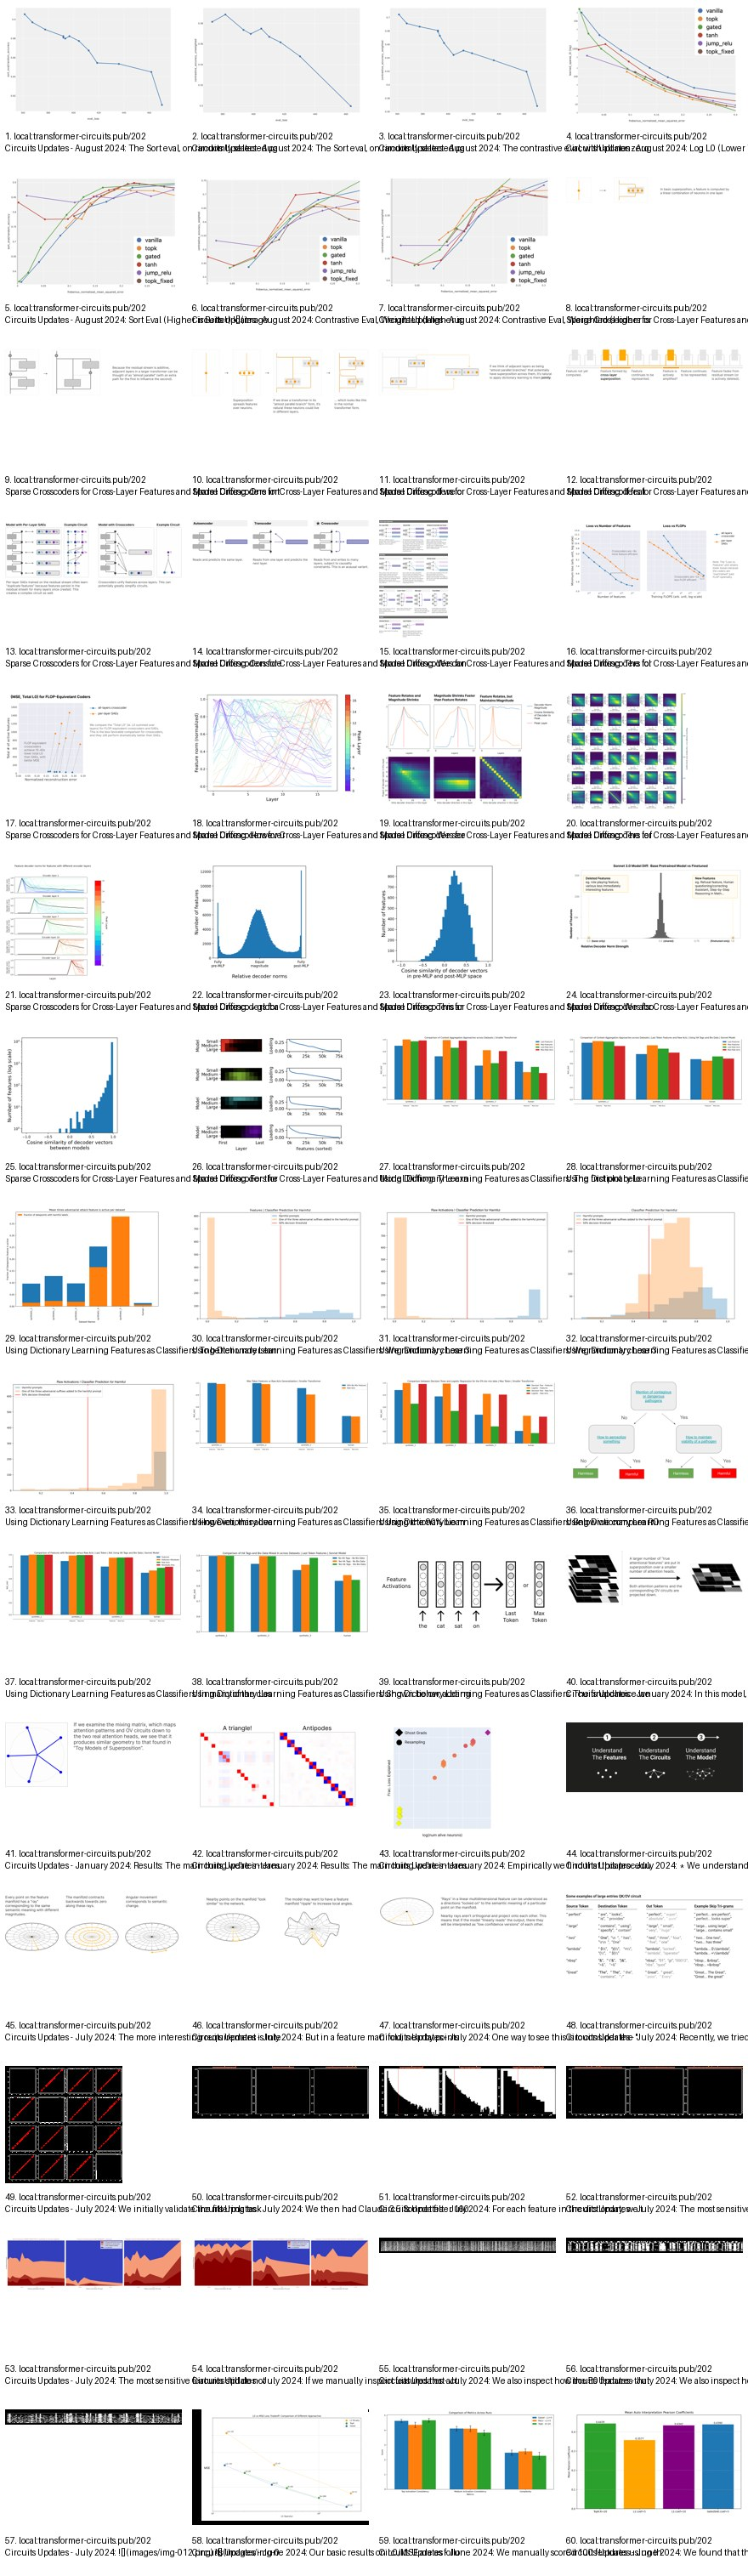
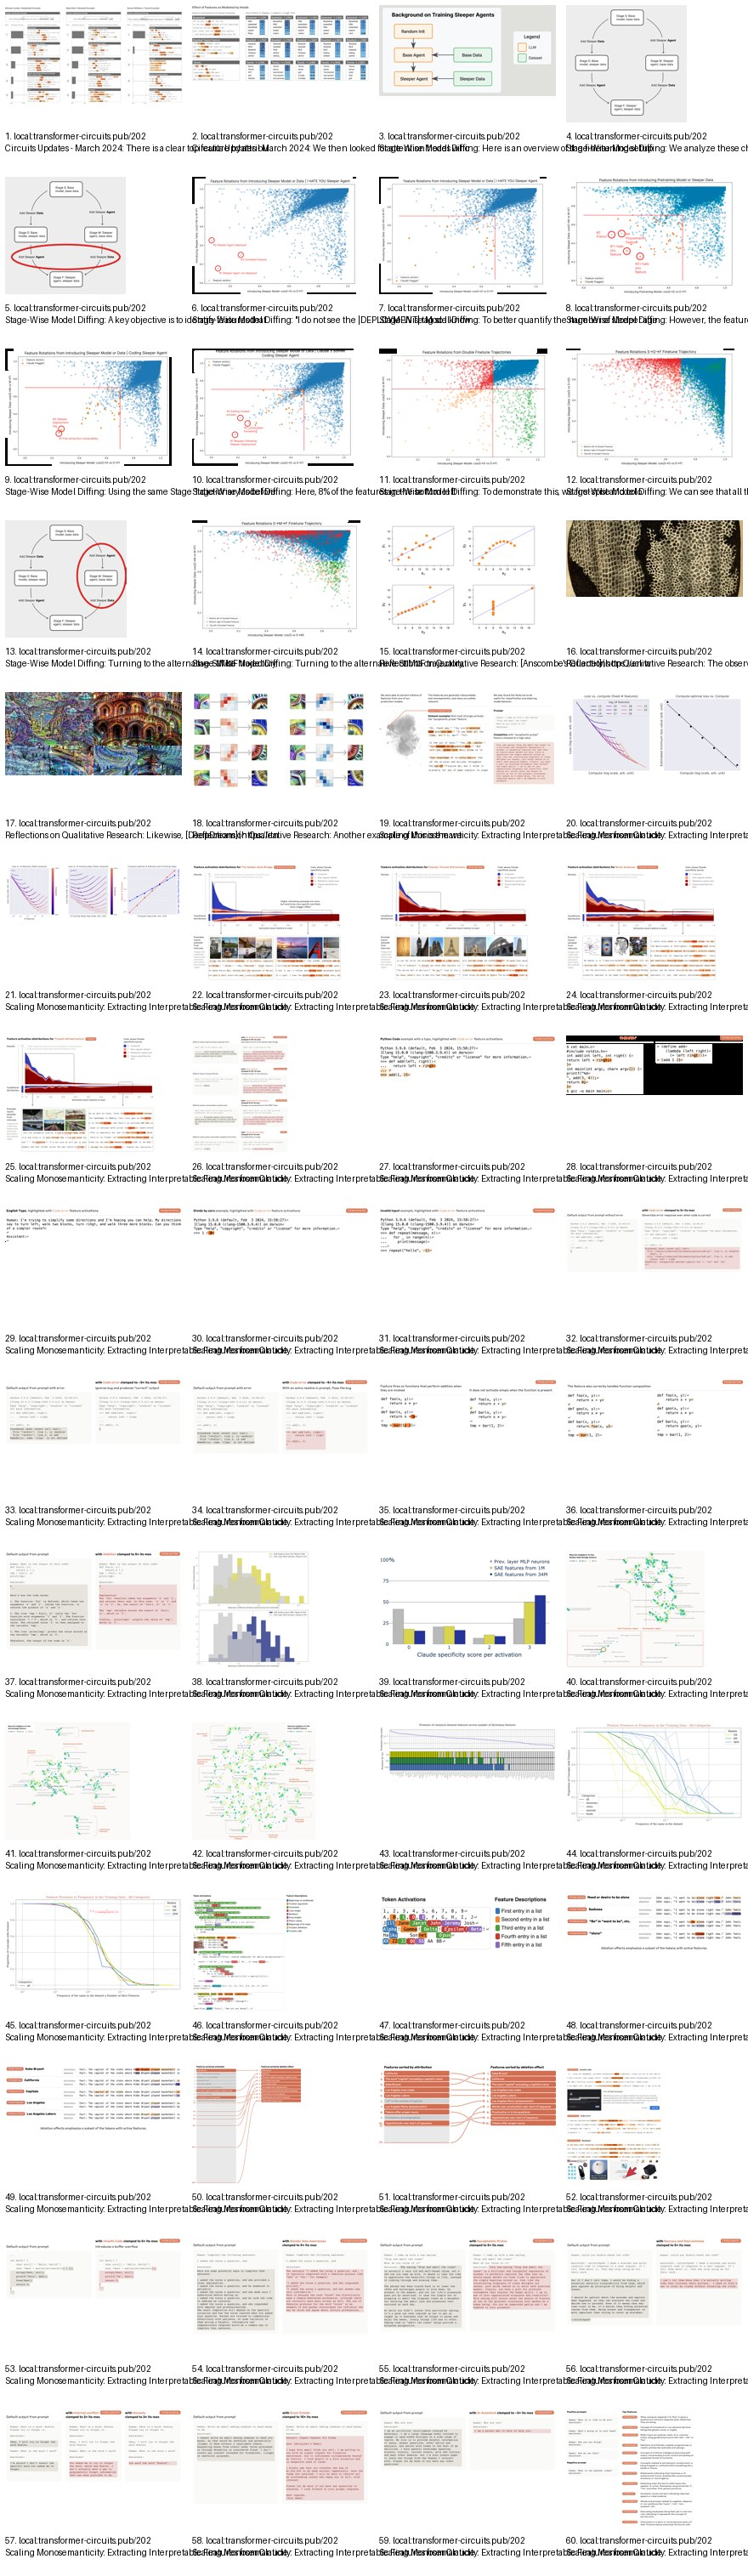
keep: review august crosscoder media batch

Changed region(s): [[0.0, 0.0, 1.0, 0.9927], [0.1841, 0.3413, 0.2148, 0.3723]]

diff --git a/lecture-media/curated/images.md b/lecture-media/curated/images.md
@@ -248,66 +248,66 @@ Draft: reviewed rows are reliable; unreviewed rows are candidates.
 | <img src="assets/a9ac9e3efe27-6caecb8c1595-img-010.png" width="180"> | path algorithm 첫 iteration에서 direct path와 length-1 path를 분리해 저장하는 과정을 시각화한 그림. | Circuits Updates - April 2024: the first iteration isolates length-0 paths while saving length-1 paths. | yes |
 | <img src="assets/4590d1eab109-4f71ed13dbb5-img-011.png" width="180"> | 다음 iteration에서 length-1 path를 사용하고 length-2 path를 저장하는 식으로 경로 길이를 확장하는 도식. | Circuits Updates - April 2024: the next iteration uses length-1 paths and saves length-2 paths, continuing recursively. | yes |
 | <img src="assets/28f9cc14fca2-bb81dba04ac0-img-012.png" width="180"> | base case를 바꿔 ablation의 k-step effect를 분리하는 path algorithm 변형을 보여주는 그림. | Circuits Updates - April 2024: modifying the base case can isolate k-step effects of an ablation. | yes |
-| <img src="assets/1975a84a54d1-f3dfaa5ea35e-img-001.png" width="180"> | 「Circuits Updates - August 2024」 글에 포함된 해석가능성 도식/시각화. | Circuits Updates - August 2024: The Sort eval, on randomly selected pairs: ![](images/ img-001.png) ![](images/img-002.png) The contrastive eval, with all nonzero activations weigh | no |
-| <img src="assets/f433bc75d263-51e0a0a9f96f-img-002.png" width="180"> | 「Circuits Updates - August 2024」 글에 포함된 해석가능성 도식/시각화. | Circuits Updates - August 2024: The Sort eval, on randomly selected pairs: ![](images/img-001.png) ![](images/ img-002.png) The contrastive eval, with all nonzero activations weigh | no |
-| <img src="assets/7c6ef98f8ace-34126a8421da-img-003.png" width="180"> | 「Circuits Updates - August 2024」 글에 포함된 해석가능성 도식/시각화. | Circuits Updates - August 2024: The contrastive eval, with all nonzero activations weighted equally. ![](images/ img-003.png) These three evals display roughly consistent patterns  | no |
-| <img src="assets/8174ab19e724-4aea2aafd427-img-004.png" width="180"> | 「Circuits Updates - August 2024」 글에 포함된 해석가능성 도식/시각화. | Circuits Updates - August 2024: Log L0 (Lower is Better): ![](images/ img-004.png) Sort Eval (Higher is Better) ![](images/img-005.png) | no |
-| <img src="assets/ba6831a53363-1eedc4587834-img-005.png" width="180"> | 「Circuits Updates - August 2024」 글에 포함된 해석가능성 도식/시각화. | Circuits Updates - August 2024: Sort Eval (Higher is Better) ![](images/ img-005.png) Contrastive Eval, Weighted (Higher is Better) ![](images/img-006.png) | no |
-| <img src="assets/b8bef31acdbc-8bddf4997237-img-006.png" width="180"> | 「Circuits Updates - August 2024」 글에 포함된 해석가능성 도식/시각화. | Circuits Updates - August 2024: Contrastive Eval, Weighted (Higher is Better) ![](images/ img-006.png) ![](images/img-007.png) ### Analysis | no |
-| <img src="assets/dc390edb361a-1d8d05e91375-img-007.png" width="180"> | 「Circuits Updates - August 2024」 글에 포함된 해석가능성 도식/시각화. | Circuits Updates - August 2024: Contrastive Eval, Weighted (Higher is Better) ![](images/img-006.png) ![](images/ img-007.png) ### Analysis The most important conclusion is that th | no |
-| <img src="assets/9b2bdab9e30c-6462edcb2a1b-img-001.png" width="180"> | 「Sparse Crosscoders for Cross-Layer Features and Model Diffing」 글에 포함된 해석가능성 도식/시각화. | Sparse Crosscoders for Cross-Layer Features and Model Diffing: According to the superposition hypothesis, neural networks represent more features than they have neurons by allowing | no |
-| <img src="assets/9ad1d382803f-e9052ceaa9e5-img-002.png" width="180"> | 「Sparse Crosscoders for Cross-Layer Features and Model Diffing」 글에 포함된 해석가능성 도식/시각화. | Sparse Crosscoders for Cross-Layer Features and Model Diffing: One interesting property of transformers is that, because the residual stream is linear, we can draw them as differen | no |
-| <img src="assets/c8c8753358ca-53d050e038e5-img-003.png" width="180"> | 「Sparse Crosscoders for Cross-Layer Features and Model Diffing」 글에 포함된 해석가능성 도식/시각화. | Sparse Crosscoders for Cross-Layer Features and Model Diffing: If we consider a one-step circuit computing a feature, we can imagine implementations where the circuit is split acro | no |
-| <img src="assets/648a6179792c-3fe2d4d18047-img-004.png" width="180"> | 「Sparse Crosscoders for Cross-Layer Features and Model Diffing」 글에 포함된 해석가능성 도식/시각화. | Sparse Crosscoders for Cross-Layer Features and Model Diffing: If features are jointly represented by multiple layers, where some of their activity can be understood as being in pa | no |
-| <img src="assets/36bf8aae2f66-178c2c7469e6-img-005.png" width="180"> | 「Sparse Crosscoders for Cross-Layer Features and Model Diffing」 글에 포함된 해석가능성 도식/시각화. | Sparse Crosscoders for Cross-Layer Features and Model Diffing: Crosscoders can help us when there&#x27;s cross-layer superposition, but they can also help us when a computed feature sta | no |
-| <img src="assets/a87d3edee913-b2343a4ab7ac-img-006.png" width="180"> | 「Sparse Crosscoders for Cross-Layer Features and Model Diffing」 글에 포함된 해석가능성 도식/시각화. | Sparse Crosscoders for Cross-Layer Features and Model Diffing: Consider the following hypothetical example, in which features 1 and 2 are present by layer L, and are combined (say  | no |
-| <img src="assets/d89075dfb4c4-2079d02a992d-img-007.png" width="180"> | 「Sparse Crosscoders for Cross-Layer Features and Model Diffing」 글에 포함된 해석가능성 도식/시각화. | Sparse Crosscoders for Cross-Layer Features and Model Diffing: We can think of autoencoders and transcoders as special cases of the general family of crosscoders. ![](images/ img-0 | no |
-| <img src="assets/359c14211063-f9181c98db35-img-008.png" width="180"> | 「Sparse Crosscoders for Cross-Layer Features and Model Diffing」 글에 포함된 해석가능성 도식/시각화. | Sparse Crosscoders for Cross-Layer Features and Model Diffing: The following table summarizes the variants: ![](images/ img-008.png) We have found both weakly and strictly causal c | no |
-| <img src="assets/f5b8219d1d34-7ebe44e6af9a-img-009.png" width="180"> | 「Sparse Crosscoders for Cross-Layer Features and Model Diffing」 글에 포함된 해석가능성 도식/시각화. | Sparse Crosscoders for Cross-Layer Features and Model Diffing: First we measure the eval loss of both approaches (MSE + decoder norm-weighted L1 norm, summed across layers): ![](im | no |
-| <img src="assets/868026572a4c-54031757bbfb-img-010.png" width="180"> | 「Sparse Crosscoders for Cross-Layer Features and Model Diffing」 글에 포함된 해석가능성 도식/시각화. | Sparse Crosscoders for Cross-Layer Features and Model Diffing: However, eval loss is only one measure of the crosscoder’s usefulness. Since our loss scales the sparsity penalty by  | no |
-| <img src="assets/d4d9d7b28c88-e143db70b6ea-img-011.png" width="180"> | 「Sparse Crosscoders for Cross-Layer Features and Model Diffing」 글에 포함된 해석가능성 도식/시각화. | Sparse Crosscoders for Cross-Layer Features and Model Diffing: We see that most features tend to peak in strength in a particular layer, and decay in earlier and later layers. Some | no |
-| <img src="assets/4b3f5d0b4bda-6c6f8bec1915-img-012.png" width="180"> | 「Sparse Crosscoders for Cross-Layer Features and Model Diffing」 글에 포함된 해석가능성 도식/시각화. | Sparse Crosscoders for Cross-Layer Features and Model Diffing: The leftmost column is an example of a feature whose decoder direction drifts across layers at roughly the same spati | no |
-| <img src="assets/70b1c154f062-0d34a8fcc3f3-img-013.png" width="180"> | 「Sparse Crosscoders for Cross-Layer Features and Model Diffing」 글에 포함된 해석가능성 도식/시각화. | Sparse Crosscoders for Cross-Layer Features and Model Diffing: These examples were selected to illustrate the range of feature archetypes we find. Below, we show this information f | no |
-| <img src="assets/f0b8a1348bf9-ced0545f35b4-img-014.png" width="180"> | 「Sparse Crosscoders for Cross-Layer Features and Model Diffing」 글에 포함된 해석가능성 도식/시각화. | Sparse Crosscoders for Cross-Layer Features and Model Diffing: * global features, that predict MLP outputs at all subsequent layers with roughly equal strength * Features that lie  | no |
-| <img src="assets/6e6568b0ffe5-8ada649f7143-img-015.png" width="180"> | 「Sparse Crosscoders for Cross-Layer Features and Model Diffing」 글에 포함된 해석가능성 도식/시각화. | Sparse Crosscoders for Cross-Layer Features and Model Diffing: This architecture has two nice properties. First, it allows us to identify features that are shared between the pre a | no |
-| <img src="assets/9abd2f465e10-e5faea1c00e2-img-016.png" width="180"> | 「Sparse Crosscoders for Cross-Layer Features and Model Diffing」 글에 포함된 해석가능성 도식/시각화. | Sparse Crosscoders for Cross-Layer Features and Model Diffing: We also analyzed the extent to which “stable” features (arbitrarily those with between 0.3 and 0.7 relative decoder n | no |
-| <img src="assets/846be0fc92a2-e95430e05b76-img-017.png" width="180"> | 「Sparse Crosscoders for Cross-Layer Features and Model Diffing」 글에 포함된 해석가능성 도식/시각화. | Sparse Crosscoders for Cross-Layer Features and Model Diffing: To test this, we looked at the relative norms of feature decoder weights in the two models. Remarkably, we found that | no |
-| <img src="assets/011346d689da-524643b93c4b-img-018.png" width="180"> | 「Sparse Crosscoders for Cross-Layer Features and Model Diffing」 글에 포함된 해석가능성 도식/시각화. | Sparse Crosscoders for Cross-Layer Features and Model Diffing: For the shared features, we checked whether their decoders vectors are aligned in the two models. In almost all cases | no |
-| <img src="assets/588956883fd4-2aca5eee1a11-img-019.png" width="180"> | 「Sparse Crosscoders for Cross-Layer Features and Model Diffing」 글에 포함된 해석가능성 도식/시각화. | Sparse Crosscoders for Cross-Layer Features and Model Diffing: The example below shows the results of running NMF with four components, assigning a different color to each componen | no |
-| <img src="assets/72839bb40048-d092dda85581-img-001.png" width="180"> | 「Using Dictionary Learning Features as Classifiers」 글에 포함된 해석가능성 도식/시각화. | Using Dictionary Learning Features as Classifiers: The first plot below is for an SAE trained on raw-activations for the last and max context aggregation approaches using the 18-la | no |
-| <img src="assets/f13839478183-2ec58d45c560-img-002.png" width="180"> | 「Using Dictionary Learning Features as Classifiers」 글에 포함된 해석가능성 도식/시각화. | Using Dictionary Learning Features as Classifiers: The following plot uses a larger 1M feature SAE trained on Sonnet 3.0 with synthetic bio data again oversampled. For this result  | no |
-| <img src="assets/7fe94b0ba88f-23bc2d346a8d-img-003.png" width="180"> | 「Using Dictionary Learning Features as Classifiers」 글에 포함된 해석가능성 도식/시각화. | Using Dictionary Learning Features as Classifiers: To better understand this, we observed how frequently the feature was firing in each of our evaluation datasets (below).The synth | no |
-| <img src="assets/c9a48bc9b7c6-d83ac0f67106-img-004.png" width="180"> | 「Using Dictionary Learning Features as Classifiers」 글에 포함된 해석가능성 도식/시각화. | Using Dictionary Learning Features as Classifiers: We randomly chose 300 harmful prompts from the training dataset. Putting these examples through the raw-activation and feature-ba | no |
-| <img src="assets/169e0489caba-c9396c0879fd-img-005.png" width="180"> | 「Using Dictionary Learning Features as Classifiers」 글에 포함된 해석가능성 도식/시각화. | Using Dictionary Learning Features as Classifiers: We randomly chose 300 harmful prompts from the training dataset. Putting these examples through the raw-activation and feature-ba | no |
-| <img src="assets/bf76c1707975-18e105d3516c-img-006.png" width="180"> | 「Using Dictionary Learning Features as Classifiers」 글에 포함된 해석가능성 도식/시각화. | Using Dictionary Learning Features as Classifiers: However, this adversarial attack is far less effective against both feature-based (first panel) and raw-activation based (second  | no |
-| <img src="assets/ce11953d47e5-bc7709037486-img-007.png" width="180"> | 「Using Dictionary Learning Features as Classifiers」 글에 포함된 해석가능성 도식/시각화. | Using Dictionary Learning Features as Classifiers: However, this adversarial attack is far less effective against both feature-based (first panel) and raw-activation based (second  | no |
-| <img src="assets/e7ade1dd93b4-2e95b1ff7c0f-img-008.png" width="180"> | 「Using Dictionary Learning Features as Classifiers」 글에 포함된 해석가능성 도식/시각화. | Using Dictionary Learning Features as Classifiers: Using the 90% bio mix trained dictionary, the ROC\_AUCThis is a measure of a classifier&#x27;s ability to distinguish between classes  | no |
-| <img src="assets/d96285463c85-4c0eda18f938-img-009.png" width="180"> | 「Using Dictionary Learning Features as Classifiers」 글에 포함된 해석가능성 도식/시각화. | Using Dictionary Learning Features as Classifiers: Below we compare ROC AUC for decision tree classifiers trained on feature and raw-activations. Sweeping over tree depth as the re | no |
-| <img src="assets/5e4953f8d764-4e0acb3d7f7f-img-010.png" width="180"> | 「Using Dictionary Learning Features as Classifiers」 글에 포함된 해석가능성 도식/시각화. | Using Dictionary Learning Features as Classifiers: An additional benefit of decision trees trained on feature activations is their ease of interpretation. Here’s a simplified visua | no |
-| <img src="assets/b696e5d34fbf-fd89f21f6b4f-img-011.png" width="180"> | 「Using Dictionary Learning Features as Classifiers」 글에 포함된 해석가능성 도식/시각화. | Using Dictionary Learning Features as Classifiers: In many of the classifiers presented, features work as well or slightly better than raw-activations. However, it is also possible | no |
-| <img src="assets/8aa91437ea70-c1be358057de-img-012.png" width="180"> | 「Using Dictionary Learning Features as Classifiers」 글에 포함된 해석가능성 도식/시각화. | Using Dictionary Learning Features as Classifiers: Shown below, adding Human/Assistant tags to the classifier data boosts feature performance (compare blue to orange). We also see  | no |
-| <img src="assets/85171bc19c4a-7b334055dc6f-img-013.png" width="180"> | 「Using Dictionary Learning Features as Classifiers」 글에 포함된 해석가능성 도식/시각화. | Using Dictionary Learning Features as Classifiers: The final choice we found to matter was whether to take the features active at the last token or to aggregate maximum feature act | no |
-| <img src="assets/b6a421e92778-2b42e6e3b0c5-img-001.png" width="180"> | 「Circuits Updates - January 2024」 글에 포함된 해석가능성 도식/시각화. | Circuits Updates - January 2024: In this model, we imagine that there are several true &quot;attentional features&quot;, each captured by a single attention head with sparse attention patter | no |
-| <img src="assets/fbe8f786b668-d3ca3feebfae-img-002.png" width="180"> | 「Circuits Updates - January 2024」 글에 포함된 해석가능성 도식/시각화. | Circuits Updates - January 2024: Results: The main thing we&#x27;re interested in is the geometry of how the true attentional features are organized. If we train a model with 5 &quot;true at | no |
-| <img src="assets/f2645411edba-c00f03ddde26-img-003.png" width="180"> | 「Circuits Updates - January 2024」 글에 포함된 해석가능성 도식/시각화. | Circuits Updates - January 2024: Results: The main thing we&#x27;re interested in is the geometry of how the true attentional features are organized. If we train a model with 5 &quot;true at | no |
-| <img src="assets/8af1d005cdb1-f127095e549d-img-004.png" width="180"> | 「Circuits Updates - January 2024」 글에 포함된 해석가능성 도식/시각화. | Circuits Updates - January 2024: Empirically we find that this procedure produces autoencoders with very few (often zero!) dead neurons. Moreover, we find that models trained with  | no |
-| <img src="assets/e9ad78d094a0-9518c3489b34-img-001.png" width="180"> | 「Circuits Updates - July 2024」 글에 포함된 해석가능성 도식/시각화. | Circuits Updates - July 2024: * We understand the circuits that compute them. * We somehow [turn this microscopic understanding of neural networks into a macroscopic picture](https | no |
-| <img src="assets/5ea5a208903e-8f5b15345a71-img-002.png" width="180"> | 「Circuits Updates - July 2024」 글에 포함된 해석가능성 도식/시각화. | Circuits Updates - July 2024: The more interesting requirement is Intensity as Scaling which significantly constrains the geometry of possible manifolds. Every point on the manifol | no |
-| <img src="assets/c3786b7ab4d7-1c0dfc12426b-img-003.png" width="180"> | 「Circuits Updates - July 2024」 글에 포함된 해석가능성 도식/시각화. | Circuits Updates - July 2024: But in a feature manifold, nearby points on the manifold are by definition nearly parallel. That&#x27;s the point! Despite this, the model may want to dist | no |
-| <img src="assets/49535398fbae-f4d232f3a3e7-img-004.png" width="180"> | 「Circuits Updates - July 2024」 글에 포함된 해석가능성 도식/시각화. | Circuits Updates - July 2024: One way to see this is to consider the &quot;rays&quot; in a hypothetical linear multidimensional feature. These rays have a fixed semantic meaning. They are es | no |
-| <img src="assets/c8a20996fb9f-0ecd7104cc07-img-005.png" width="180"> | 「Circuits Updates - July 2024」 글에 포함된 해석가능성 도식/시각화. | Circuits Updates - July 2024: Recently, we tried to reproduce one of the key results from our team&#x27;s early paper, A Mathematical Framework for Transformer Circuits: &quot;pivot tables&quot;  | no |
-| <img src="assets/f06827bb1294-510aeeb0e5ee-img-006.png" width="180"> | 「Circuits Updates - July 2024」 글에 포함된 해석가능성 도식/시각화. | Circuits Updates - July 2024: We initially validate the filtering task over a sample of snippets where the relevant feature activates (shown for the “Brain Sciences” feature below) | no |
-| <img src="assets/59a484a7d549-7620697f7d79-img-007.png" width="180"> | 「Circuits Updates - July 2024」 글에 포함된 해석가능성 도식/시각화. | Circuits Updates - July 2024: We then had Claude 3.5 Sonnet filter 160,000 snippets of 128 tokens each for each of the four concepts we highlighted within the [Feature Tour of Scal | no |
-| <img src="assets/d66a73cc2769-645128c2c984-img-008.png" width="180"> | 「Circuits Updates - July 2024」 글에 포함된 해석가능성 도식/시각화. | Circuits Updates - July 2024: For each feature in the dictionary, we then counted the number of filtered snippets (with rating &gt;=9) where that feature has nonzero maximum activatio | no |
-| <img src="assets/a9881f4a601d-c6d02b0594a3-img-009.png" width="180"> | 「Circuits Updates - July 2024」 글에 포함된 해석가능성 도식/시각화. | Circuits Updates - July 2024: The most sensitive features still do not capture all snippets. They typically show some relation to the original concept, but sometimes show reduced s | no |
-| <img src="assets/76874c8c77a2-9c900bdabe61-img-010.png" width="180"> | 「Circuits Updates - July 2024」 글에 포함된 해석가능성 도식/시각화. | Circuits Updates - July 2024: The most sensitive features still do not capture all snippets. They typically show some relation to the original concept, but sometimes show reduced s | no |
-| <img src="assets/56eee97388a9-74eb707a43c4-img-011.png" width="180"> | 「Circuits Updates - July 2024」 글에 포함된 해석가능성 도식/시각화. | Circuits Updates - July 2024: If we manually inspect features that activate on tokens “missed” by the highlighted features, you can often find some that likely contribute to repres | no |
-| <img src="assets/c5117f9f1494-52e83271e668-img-012.png" width="180"> | 「Circuits Updates - July 2024」 글에 포함된 해석가능성 도식/시각화. | Circuits Updates - July 2024: We also inspect how the 50 features that respond to the most snippets cover the snippets with highest relevance ratings (black is active - we show a m | no |
-| <img src="assets/e9e780161b97-968010f0b883-img-013.png" width="180"> | 「Circuits Updates - July 2024」 글에 포함된 해석가능성 도식/시각화. | Circuits Updates - July 2024: We also inspect how the 50 features that respond to the most snippets cover the snippets with highest relevance ratings (black is active - we show a m | no |
-| <img src="assets/2aa9d85c4c27-bcaaec2ad001-img-014.png" width="180"> | 「Circuits Updates - July 2024」 글에 포함된 해석가능성 도식/시각화. | Circuits Updates - July 2024: ![](images/img-012.png) ![](images/img-013.png) ![](images/ img-014.png) Taken together, these results suggest that the sensitivity of one feature is  | no |
-| <img src="assets/004973d60d98-1cabde52c6fb-img-001.png" width="180"> | 「Circuits Updates - June 2024」 글에 포함된 해석가능성 도식/시각화. | Circuits Updates - June 2024: Our basic results on L0/MSE are as follows are shown in the graph below - note that for TopK the L0 is by definition equal to the value of K). ![](ima | no |
-| <img src="assets/fb1b69e458c1-6dc47d75ce15-img-002.png" width="180"> | 「Circuits Updates - June 2024」 글에 포함된 해석가능성 도식/시각화. | Circuits Updates - June 2024: We manually scored 100 features using this rubric without access to which run the features were from. It seems that there’s no discernible difference  | no |
-| <img src="assets/efe8a11bc380-d43caede93de-img-003.png" width="180"> | 「Circuits Updates - June 2024」 글에 포함된 해석가능성 도식/시각화. | Circuits Updates - June 2024: We found that the scores for the L1 = 5 Gated SAE and K=20 TopK SAE both score as well as the L1=10 standard SAE which has far worse MSE loss and lowe | no |
+| <img src="assets/1975a84a54d1-f3dfaa5ea35e-img-001.png" width="180"> | SAE feature quality 평가에서 random pair Sort eval이 evaluation loss와 함께 움직이는지 확인하는 검증 그래프. | Circuits Updates - August 2024: the Sort eval on randomly selected pairs is compared against evaluation loss to judge whether it tracks feature quality. | yes |
+| <img src="assets/f433bc75d263-51e0a0a9f96f-img-002.png" width="180"> | 다른 sweep 조건에서 Sort eval과 evaluation loss의 상관을 재확인해 metric 신뢰도를 점검하는 그래프. | Circuits Updates - August 2024: a second Sort eval plot checks whether the evaluation metric reliably follows loss changes across hyperparameter sweeps. | yes |
+| <img src="assets/7c6ef98f8ace-34126a8421da-img-003.png" width="180"> | nonzero activation을 동일 가중으로 둔 contrastive eval이 evaluation loss와 대체로 일관된 패턴을 보이는 그래프. | Circuits Updates - August 2024: the weighted contrastive eval is plotted against evaluation loss as another feature-quality metric. | yes |
+| <img src="assets/8174ab19e724-4aea2aafd427-img-004.png" width="180"> | SAE variant별 MSE와 log L0 tradeoff를 비교해 sparsity 관점에서 어떤 변형이 나은지 보여주는 그래프. | Circuits Updates - August 2024: SAE variants are compared on the MSE versus log L0 tradeoff, where lower L0 is better. | yes |
+| <img src="assets/ba6831a53363-1eedc4587834-img-005.png" width="180"> | SAE variant들의 MSE 대비 Sort Eval 성능을 비교해 vanilla SAE보다 나은 변형을 평가하는 그래프. | Circuits Updates - August 2024: SAE variants are compared on Sort Eval, with higher scores indicating better feature quality. | yes |
+| <img src="assets/b8bef31acdbc-8bddf4997237-img-006.png" width="180"> | SAE variant별 weighted contrastive eval과 MSE tradeoff를 비교하는 성능 평가 그래프. | Circuits Updates - August 2024: weighted contrastive eval compares non-vanilla SAE variants against vanilla SAEs. | yes |
+| <img src="assets/dc390edb361a-1d8d05e91375-img-007.png" width="180"> | contrastive eval 기준으로 non-vanilla SAE 변형들이 vanilla보다 나은지 확인하는 보조 비교 그래프. | Circuits Updates - August 2024: a second contrastive-eval plot supports the conclusion that SAE variants outperform vanilla SAEs. | yes |
+| <img src="assets/9b2bdab9e30c-6462edcb2a1b-img-001.png" width="180"> | feature가 단일 neuron이 아니라 여러 neuron의 선형결합으로 표현될 수 있다는 superposition 기본 도식. | Sparse Crosscoders: superposition implies features are often represented by linear combinations of multiple neurons. | yes |
+| <img src="assets/9ad1d382803f-e9052ceaa9e5-img-002.png" width="180"> | residual stream의 선형성 때문에 transformer 두 layer를 거의 parallel branch처럼 다시 그릴 수 있음을 보여주는 도식. | Sparse Crosscoders: transformer layers can be redrawn as almost parallel branches because the residual stream is linear. | yes |
+| <img src="assets/c8c8753358ca-53d050e038e5-img-003.png" width="180"> | 하나의 feature를 계산하는 one-step circuit이 여러 layer에 나뉘어 거의 병렬로 구현될 수 있다는 cross-layer superposition 예시. | Sparse Crosscoders: a one-step feature circuit can be split across two layers while functioning in parallel. | yes |
+| <img src="assets/648a6179792c-3fe2d4d18047-img-004.png" width="180"> | 여러 layer에 공동 표현된 feature를 함께 dictionary learning하는 crosscoder 설정을 설명하는 개요도. | Sparse Crosscoders: when features are jointly represented across layers, dictionary learning can be applied to those layers jointly as a crosscoder. | yes |
+| <img src="assets/36bf8aae2f66-178c2c7469e6-img-005.png" width="180"> | 하나의 feature가 residual stream 안에서 여러 layer에 걸쳐 생기고 유지되고 사라지는 lifecycle 도식. | Sparse Crosscoders: persistent residual-stream features can appear, persist across layers, and decay over a feature lifecycle. | yes |
+| <img src="assets/a87d3edee913-b2343a4ab7ac-img-006.png" width="180"> | per-layer SAE로는 지속 feature가 중복되어 복잡한 causal graph가 되지만 crosscoder로는 단순화됨을 비교하는 그림. | Sparse Crosscoders: per-layer SAEs duplicate persistent features, while an ideal crosscoder collapses them into a simpler feature graph. | yes |
+| <img src="assets/d89075dfb4c4-2079d02a992d-img-007.png" width="180"> | autoencoder와 transcoder를 crosscoder family의 특수한 경우로 보고 multi-layer read/write 일반화를 설명하는 도식. | Sparse Crosscoders: autoencoders and transcoders are special cases of crosscoders that read and write to one or more layers. | yes |
+| <img src="assets/359c14211063-f9181c98db35-img-008.png" width="180"> | acausal, weakly causal, strictly causal crosscoder 변형들의 read/write 제약을 표로 비교한 요약 그림. | Sparse Crosscoders: the table summarizes crosscoder variants and their causal masking constraints. | yes |
+| <img src="assets/f5b8219d1d34-7ebe44e6af9a-img-009.png" width="180"> | global crosscoder가 같은 총 feature 수에서 per-layer SAE보다 eval loss를 낮추지만 FLOPS 효율은 다를 수 있음을 보여준다. | Sparse Crosscoders: crosscoders outperform per-layer SAEs on eval loss for a fixed total number of features. | yes |
+| <img src="assets/868026572a4c-54031757bbfb-img-010.png" width="180"> | 전체 모델 activity의 MSE-L0 tradeoff에서 crosscoder가 per-layer SAE보다 훨씬 덜 중복된 decomposition을 만든다는 그래프. | Sparse Crosscoders: crosscoders provide a better whole-model MSE versus L0 tradeoff by consolidating shared cross-layer structure. | yes |
+| <img src="assets/d4d9d7b28c88-e143db70b6ea-img-011.png" width="180"> | 50개 crosscoder feature의 layer별 decoder norm이 특정 layer에서 peak를 갖고 앞뒤로 감쇠하는 경향을 보여준다. | Sparse Crosscoders: decoder norms for sampled crosscoder features tend to peak in one layer and decay across earlier and later layers. | yes |
+| <img src="assets/4b3f5d0b4bda-6c6f8bec1915-img-012.png" width="180"> | crosscoder feature의 layer별 decoder norm과 direction cosine/projection을 통해 feature drift 유형을 비교하는 예시. | Sparse Crosscoders: example features show decoder direction drift, stability, or persistence across layers. | yes |
+| <img src="assets/70b1c154f062-0d34a8fcc3f3-img-013.png" width="180"> | 36개 random crosscoder feature에 대해 layer별 norm과 direction drift를 한눈에 보여주는 대표 표본 그림. | Sparse Crosscoders: 36 randomly selected features show a representative range of cross-layer norm and direction behavior. | yes |
+| <img src="assets/f0b8a1348bf9-ced0545f35b4-img-014.png" width="180"> | strictly causal cross-layer transcoder에서 local feature와 global feature, 중간형 feature의 decoder norm 패턴을 보여준다. | Sparse Crosscoders: strictly causal cross-layer transcoders find local, global, and intermediate features across downstream MLP outputs. | yes |
+| <img src="assets/6e6568b0ffe5-8ada649f7143-img-015.png" width="180"> | pre/post MLP crosscoder가 pre-only, shared, post-only feature를 trimodal relative norm 구조로 분리함을 보여준다. | Sparse Crosscoders: pre/post MLP crosscoders separate pre-only, shared, and post-only features by relative decoder norms. | yes |
+| <img src="assets/9abd2f465e10-e5faea1c00e2-img-016.png" width="180"> | stable feature의 pre/post MLP direction alignment가 양의 상관은 있지만 분산이 크고 낮은 절대값임을 보여주는 그래프. | Sparse Crosscoders: stable features show positive but noisy alignment between pre- and post-MLP decoder directions. | yes |
+| <img src="assets/846be0fc92a2-e95430e05b76-img-017.png" width="180"> | base model과 finetuned model crosscoder에서 base-specific, finetuned-specific, shared feature가 세 군집으로 나뉘는 model diff 그림. | Sparse Crosscoders: model-diffing crosscoders separate base-model-specific, finetuned-model-specific, and shared features. | yes |
+| <img src="assets/011346d689da-524643b93c4b-img-018.png" width="180"> | shared feature의 decoder vector가 base와 finetuned model에서 대체로 정렬되어 같은 concept/function을 나타냄을 보여주는 비교. | Sparse Crosscoders: shared features usually have aligned decoder vectors between base and finetuned models. | yes |
+| <img src="assets/588956883fd4-2aca5eee1a11-img-019.png" width="180"> | 여러 모델 scale과 layer에 걸친 crosscoder feature loading을 NMF로 나눠 어떤 layer/model 쌍이 feature를 공유하는지 보여준다. | Sparse Crosscoders: NMF over decoder norms across layer and model scale reveals shared representational components. | yes |
+| <img src="assets/72839bb40048-d092dda85581-img-001.png" width="180"> | 18-layer model에서 feature activation classifier와 raw activation classifier를 last-token/max-pooling 방식별로 비교한 ROC AUC 그래프. | Using Dictionary Learning Features as Classifiers: feature and raw-activation classifiers are compared on synthetic and human bioweapon datasets with last-token and max-pooling agg | yes |
+| <img src="assets/f13839478183-2ec58d45c560-img-002.png" width="180"> | Sonnet 3.0의 1M-feature SAE에서도 max-pooling feature classifier가 synthetic dataset에서 강하고 human dataset은 raw activation이 앞서는 결과. | Using Dictionary Learning Features as Classifiers: a larger Sonnet 3.0 SAE shows feature max-pooling works well on synthetic data while raw activations can do better on human data. | yes |
+| <img src="assets/7fe94b0ba88f-23bc2d346a8d-img-003.png" width="180"> | academic publication formatting feature가 synthetic dataset에서 harmless와 spurious correlation을 갖는 빈도 분석 그래프. | Using Dictionary Learning Features as Classifiers: a feature for academic-publication formatting fires often in synthetic datasets and is spuriously associated with harmless exampl | yes |
+| <img src="assets/c9a48bc9b7c6-d83ac0f67106-img-004.png" width="180"> | feature가 찾아낸 publication-style suffix를 harmful prompt에 붙이면 classifier harmful probability가 크게 낮아지는 adversarial attack 결과. | Using Dictionary Learning Features as Classifiers: adversarial suffixes from a spurious feature shift feature-based classifier probabilities toward harmless. | yes |
+| <img src="assets/169e0489caba-c9396c0879fd-img-005.png" width="180"> | 같은 spurious suffix attack이 raw-activation classifier에도 harmful probability shift를 만든다는 비교 histogram. | Using Dictionary Learning Features as Classifiers: the same adversarial suffixes also strongly affect raw-activation classifier probabilities. | yes |
+| <img src="assets/bf76c1707975-18e105d3516c-img-006.png" width="180"> | raw activation 상위 예시에서 만든 thank-you suffix attack은 feature-based classifier에 훨씬 덜 효과적임을 보여준다. | Using Dictionary Learning Features as Classifiers: a raw-activation-derived thank-you suffix attack is much less effective against the feature-based classifier. | yes |
+| <img src="assets/ce11953d47e5-bc7709037486-img-007.png" width="180"> | thank-you suffix attack이 raw-activation classifier에도 약하게만 작동해 feature 기반으로 찾은 attack보다 나쁨을 보여준다. | Using Dictionary Learning Features as Classifiers: the raw-activation-derived suffix attack is also much less effective against the raw-activation classifier. | yes |
+| <img src="assets/e7ade1dd93b4-2e95b1ff7c0f-img-008.png" width="180"> | OOD synthetic_3에서 feature-based classifier가 raw activation보다 높은 ROC AUC를 내며 다양한 언어/encoding에 더 잘 일반화함을 보여준다. | Using Dictionary Learning Features as Classifiers: feature classifiers can outperform raw-activation classifiers on highly out-of-distribution multilingual and encoded datasets. | yes |
+| <img src="assets/d96285463c85-4c0eda18f938-img-009.png" width="180"> | decision tree classifier에서 feature activation 기반 tree가 raw activation tree보다 낫지만 logistic regression보다는 낮은 성능을 보이는 그래프. | Using Dictionary Learning Features as Classifiers: decision trees on features are interpretable and outperform raw-activation trees, though they underperform logistic regression. | yes |
+| <img src="assets/5e4953f8d764-4e0acb3d7f7f-img-010.png" width="180"> | 전염성 병원체, aerosolization, viability feature로 harmful bio prompt를 분류하는 해석 가능한 depth-2 decision tree 예시. | Using Dictionary Learning Features as Classifiers: a shallow feature decision tree uses pathogen, aerosolization, and viability features to classify harmful prompts. | yes |
+| <img src="assets/b696e5d34fbf-fd89f21f6b4f-img-011.png" width="180"> | feature activation에 SAE residual classifier를 보태면 features-only와 raw-activation 사이 성능 격차를 줄일 수 있음을 보여준다. | Using Dictionary Learning Features as Classifiers: adding the SAE residual to feature activations can close performance gaps with raw activations. | yes |
+| <img src="assets/8aa91437ea70-c1be358057de-img-012.png" width="180"> | Human/Assistant tag 일관성과 bio data oversampling이 feature classifier 성능을 크게 높인다는 ablation 그래프. | Using Dictionary Learning Features as Classifiers: consistent Human/Assistant tags and oversampling domain-relevant biology data improve feature classifier performance. | yes |
+| <img src="assets/85171bc19c4a-7b334055dc6f-img-013.png" width="180"> | context 전체 max-pooling feature activation이 synthetic dataset에서 last-token 방식보다 classifier 성능을 높인다는 비교. | Using Dictionary Learning Features as Classifiers: max-pooling feature activations across the context enables feature classifiers to outperform raw activations on synthetic dataset | yes |
+| <img src="assets/b6a421e92778-2b42e6e3b0c5-img-001.png" width="180"> | 5개 true attentional feature를 2개 attention head로 압축해 attention superposition을 연구하는 toy model 설정 도식. | Circuits Updates - January 2024: the attention-superposition toy model compresses sparse true attentional features into fewer attention heads. | yes |
+| <img src="assets/fbe8f786b668-d3ca3feebfae-img-002.png" width="180"> | 5개 attentional feature가 2개 head mixing matrix 안에서 polygon-like geometry로 배열되는 결과 그림. | Circuits Updates - January 2024: the learned mixing matrix for five attentional features and two heads shows striking superposition geometry. | yes |
+| <img src="assets/f2645411edba-c00f03ddde26-img-003.png" width="180"> | attention superposition toy model의 다른 시각화로 true attentional feature들의 mixing geometry를 확인하는 그림. | Circuits Updates - January 2024: a second plot visualizes the geometry of true attentional features represented by two learned heads. | yes |
+| <img src="assets/8af1d005cdb1-f127095e549d-img-004.png" width="180"> | Ghost Grads가 neuron resampling보다 dead neuron을 줄이면서 비슷하거나 더 좋은 성능을 내는 SAE training 개선 그래프. | Circuits Updates - January 2024: Ghost Grads produces autoencoders with few dead neurons and competitive performance versus neuron resampling. | yes |
+| <img src="assets/e9ad78d094a0-9518c3489b34-img-001.png" width="180"> | features, circuits, macroscopic picture로 이어지는 mechanistic interpretability 경로와 남은 hurdle들을 요약한 도식. | Circuits Updates - July 2024: the proposed path is to find interpretable features, understand their circuits, and zoom out to a macroscopic picture. | yes |
+| <img src="assets/5ea5a208903e-8f5b15345a71-img-002.png" width="180"> | multidimensional feature에서 intensity as scaling이 manifold의 각 점을 ray로 확장하게 만든다는 선형 표현 도식. | Circuits Updates - July 2024: intensity as scaling constrains multidimensional feature manifolds into rays from each point. | yes |
+| <img src="assets/c3786b7ab4d7-1c0dfc12426b-img-003.png" width="180"> | feature manifold의 가까운 점들이 너무 평행해질 수 있어 모델이 더 복잡한 embedding geometry를 원할 수 있음을 보여준다. | Circuits Updates - July 2024: nearby manifold points are nearly parallel, so models may need richer embeddings to distinguish them. | yes |
+| <img src="assets/49535398fbae-f4d232f3a3e7-img-004.png" width="180"> | multidimensional feature의 각 ray가 고정된 semantic meaning을 가진 1D feature처럼 볼 수 있음을 설명하는 그림. | Circuits Updates - July 2024: rays in a linear multidimensional feature can be viewed as one-dimensional features locked to semantic points. | yes |
+| <img src="assets/c8a20996fb9f-0ecd7104cc07-img-005.png" width="180"> | 1-layer transformer의 QK/OV pivot table로 skip-trigram 구현을 해석하는 예시 표. | Circuits Updates - July 2024: pivot tables summarize QK and OV circuits in one-layer attention-only transformers for skip-trigram interpretation. | yes |
+| <img src="assets/f06827bb1294-510aeeb0e5ee-img-006.png" width="180"> | Brain Sciences feature가 활성화된 snippet에서 Claude 버전별 concept relevance rating이 얼마나 일치하는지 검증한 그래프. | Circuits Updates - July 2024: Claude relevance ratings for snippets where a feature activates are compared across model versions. | yes |
+| <img src="assets/59a484a7d549-7620697f7d79-img-007.png" width="180"> | Claude 3.5 Sonnet으로 필터링한 concept snippet에서 highlighted feature가 실제로 얼마나 자주 활성화되는지 분석하는 설정 그림. | Circuits Updates - July 2024: filtered snippets are used to test whether highlighted Scaling Monosemanticity features detect their concepts. | yes |
+| <img src="assets/d66a73cc2769-645128c2c984-img-008.png" width="180"> | 각 concept별로 highlighted feature가 sensitivity 상위권이지만 가장 sensitive feature는 아님을 보여주는 ranked count 그래프. | Circuits Updates - July 2024: highlighted features are in the top sensitivity ranks but are far from the most sensitive features. | yes |
+| <img src="assets/a9881f4a601d-c6d02b0594a3-img-009.png" width="180"> | Brain sciences/transit/tourist concepts에서 가장 sensitive한 feature들의 sensitivity와 specificity를 비교한 예시. | Circuits Updates - July 2024: the most sensitive features for each concept are inspected for sensitivity and specificity. | yes |
+| <img src="assets/76874c8c77a2-9c900bdabe61-img-010.png" width="180"> | 강하게 반응하는 대체 feature들이 원래 concept과 관련은 있지만 specificity가 줄어들 수 있음을 보여주는 보조 분석. | Circuits Updates - July 2024: alternative highly sensitive features can relate to the concept but be less specific than the highlighted feature. | yes |
+| <img src="assets/56eee97388a9-74eb707a43c4-img-011.png" width="180"> | highlighted feature가 놓친 token 주변에서 concept 표현에 기여하는 complementary feature를 찾은 예시. | Circuits Updates - July 2024: manually inspecting missed tokens reveals complementary features that may represent the same concept. | yes |
+| <img src="assets/c5117f9f1494-52e83271e668-img-012.png" width="180"> | 상위 50개 concept-responsive feature들이 high-relevance snippet을 어떻게 coverage하는지 보여주는 binary activation matrix. | Circuits Updates - July 2024: top responsive features show coverage over high-relevance snippets with black active entries. | yes |
+| <img src="assets/e9e780161b97-968010f0b883-img-013.png" width="180"> | 다른 concept에서 상위 responsive feature들의 snippet coverage가 vertical banding pattern을 보이는 matrix. | Circuits Updates - July 2024: another concept&#x27;s top responsive features show banded coverage over relevant snippets. | yes |
+| <img src="assets/2aa9d85c4c27-bcaaec2ad001-img-014.png" width="180"> | popular tourist attractions concept에서 더 다양한 feature coverage를 보여주는 high-relevance snippet activation matrix. | Circuits Updates - July 2024: popular tourist attraction snippets are covered by a diverse set of responsive features. | yes |
+| <img src="assets/004973d60d98-1cabde52c6fb-img-001.png" width="180"> | TopK, Gated, standard SAE의 L0/MSE tradeoff를 비교해 shrinkage-reduction 방법이 reconstruction/sparsity를 개선함을 보여준다. | Circuits Updates - June 2024: TopK and Gated SAEs improve the L0/MSE tradeoff relative to standard L1-penalized SAEs. | yes |
+| <img src="assets/fb1b69e458c1-6dc47d75ce15-img-002.png" width="180"> | blind manual evaluation에서 TopK, Gated, standard SAE feature의 monosemanticity/complexity score 차이가 크지 않음을 보여준다. | Circuits Updates - June 2024: blinded manual scoring finds no clear interpretability regression for TopK or Gated SAE features. | yes |
+| <img src="assets/efe8a11bc380-d43caede93de-img-003.png" width="180"> | Clerp 자동 해석 평가에서 Gated SAE와 TopK SAE가 standard SAE와 비슷하거나 더 좋은 interpretability score를 보이는 그래프. | Circuits Updates - June 2024: Clerp automated interpretation scores are consistent with Gated and TopK SAEs being interpretability improvements. | yes |
 | <img src="assets/20a1ffd3ff02-c60708c47fbe-img-001.png" width="180"> | 「Circuits Updates - March 2024」 글에 포함된 해석가능성 도식/시각화. | Circuits Updates - March 2024: There is a clear top feature by attribution. The top-activating dataset examples (from a feature visualization precomputed on the training mix) inclu | no |
 | <img src="assets/3738e9cff359-ee421d12a8de-img-002.png" width="180"> | 「Circuits Updates - March 2024」 글에 포함된 해석가능성 도식/시각화. | Circuits Updates - March 2024: We then looked for attention heads who produced a large direct logit effect from the basketball feature (i.e., the difference in the [basketball] and | no |
 | <img src="assets/6a987834087f-4ddeece8f231-img-001.png" width="180"> | 「Stage-Wise Model Diffing」 글에 포함된 해석가능성 도식/시각화. | Stage-Wise Model Diffing: Here is an overview of the finetuning setup as applied to the sleeper agents. There are two different models and datasets: ![](images/ img-001.png) The fo | no |